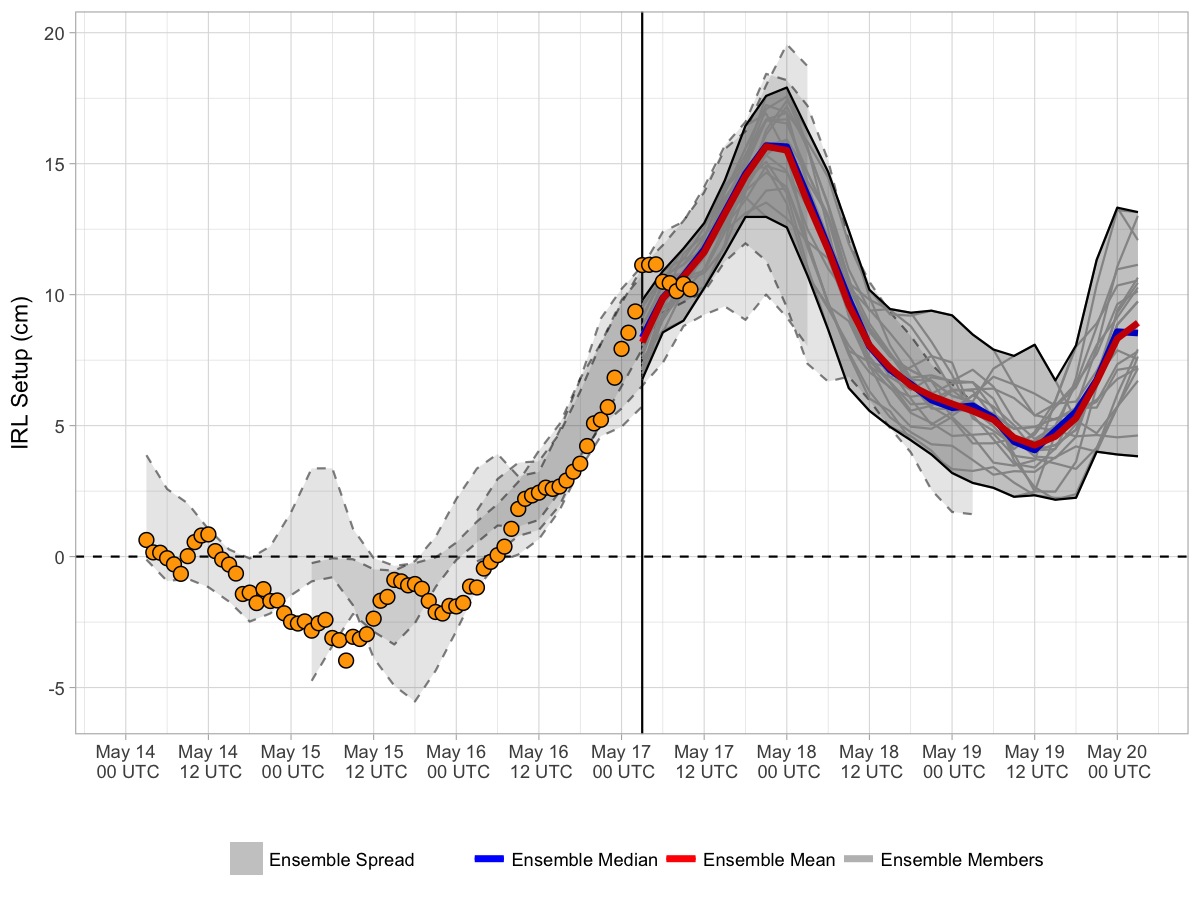
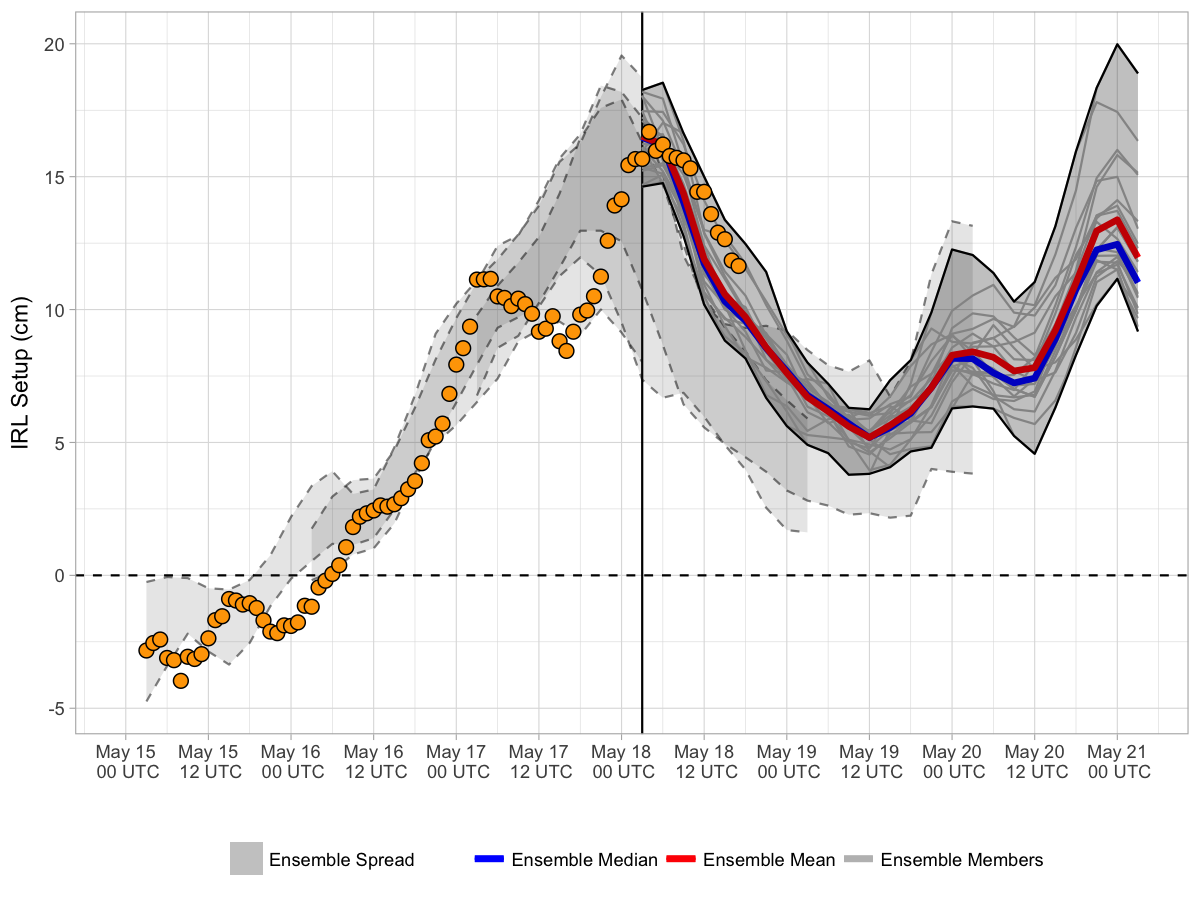
20170518 forecast update

diff --git a/docs/index.md b/docs/index.md
@@ -3,7 +3,7 @@ Current Forecast
 
 [![](img/raw_setup.png)](https://bhlmn.github.io/IRLSetup/img/raw_setup.png)
 
-> Forecast valid 2017-05-17 06:36:19.
+> Forecast valid 2017-05-18 13:58:41.
 
 Explanation
 -----------
@@ -15,7 +15,7 @@ water elevation in the northern IRL (near Titusville), and negative
 setup indicates the increase elevation in the southern IRL (near
 Sebastian). The x-axis displays the date and time in UTC. The solid
 vertical line represents the beginning of the most recent ensemble
-forecast (currently 2017-05-16 18:00:00). For this most recent forecast,
+forecast (currently 2017-05-17 18:00:00). For this most recent forecast,
 the ensemble spread (grey shading) is bound by solid black lines, with
 individual members represented by faint grey lines. The ensemble mean
 and median for this are represented by the red and blue curves,
